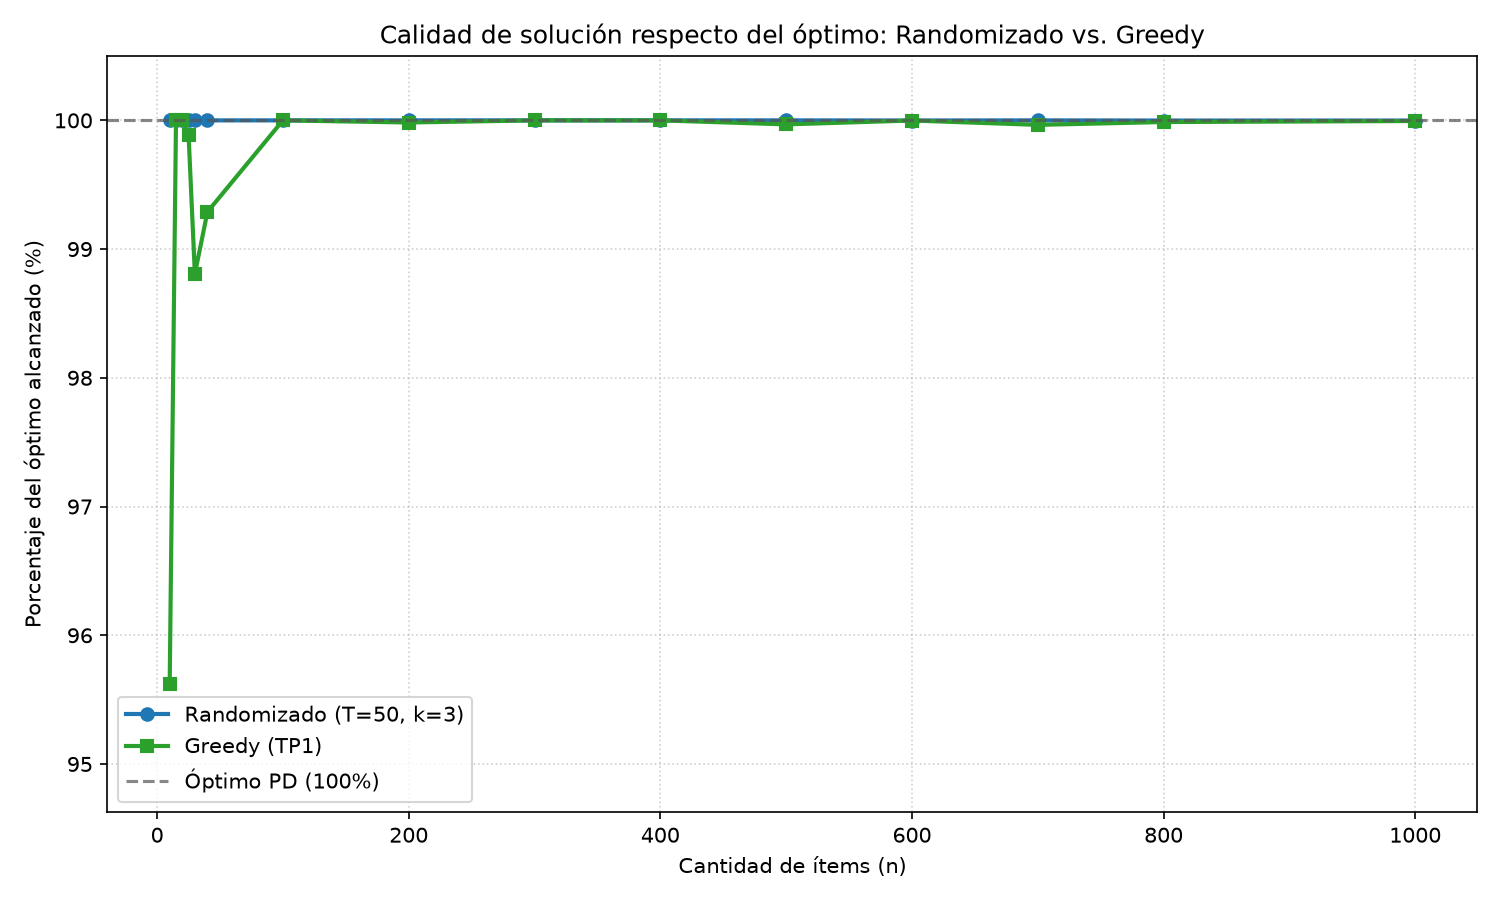
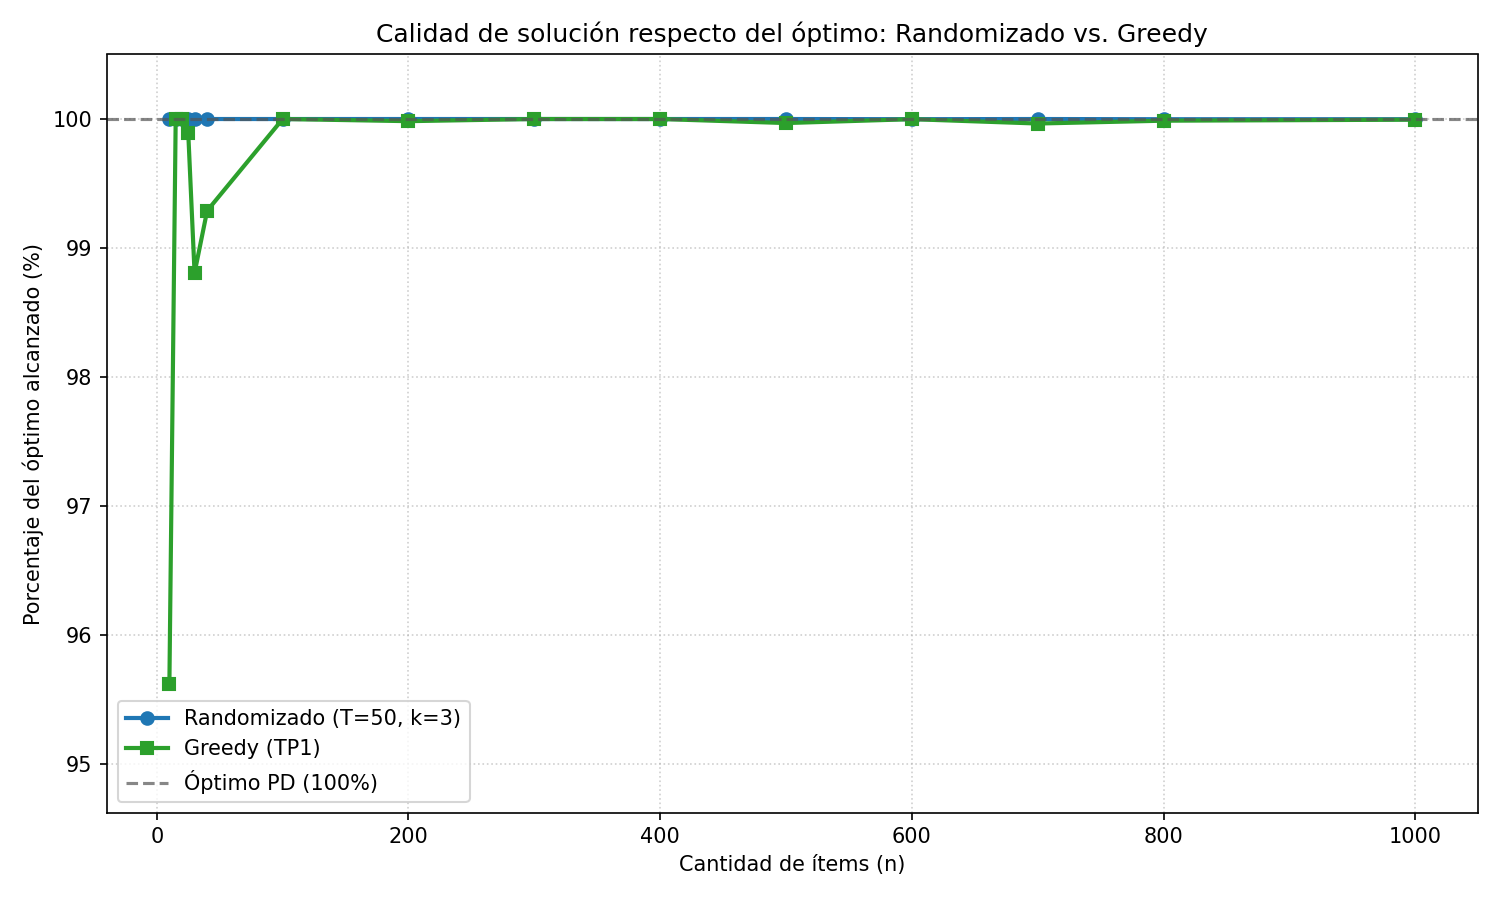
se modifica el import del problema_03 para mochila_tradicional.py

diff --git a/tp02/Problema_03/problema_03.py b/tp02/Problema_03/problema_03.py
@@ -9,7 +9,7 @@ if DIR_TP02 not in sys.path:
     sys.path.insert(0, DIR_TP02)
 
 from Problema_02.datos import DIR_MOCHILAS, leer_mochila  # noqa: E402
-from Problema_02.mochila_tradicional import mochila_tradicional  # noqa: E402
+from mochila_tradicional import mochila_tradicional  # noqa: E402
 from Problema_03.greedy import resolver_mochila_greedy  # noqa: E402
 from Problema_03.randomizado import mochila_randomizada  # noqa: E402
 
